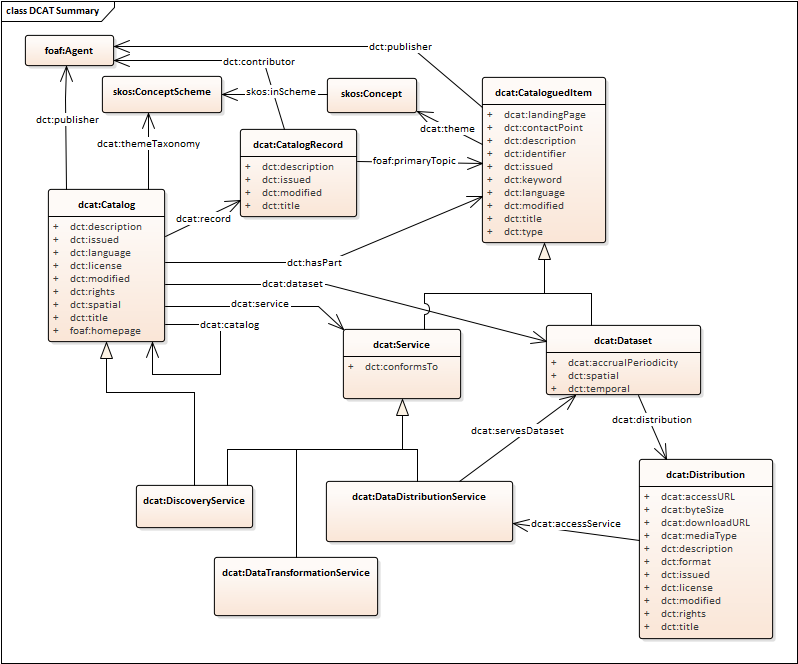
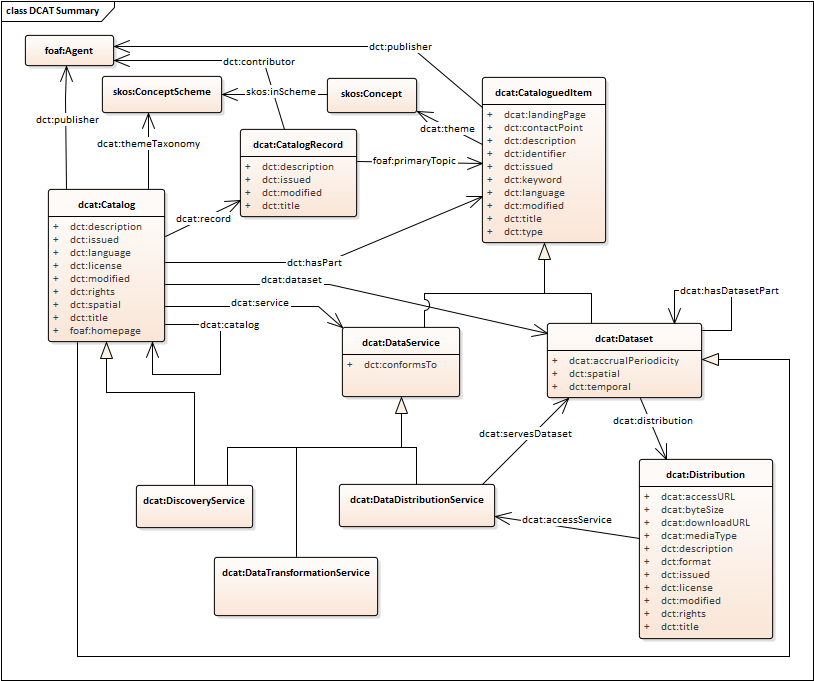
Minor elaboration of model following Genova F2F

Changed region(s): [[0.0, 0.0, 0.9925, 0.9639], [0.4511, 0.3313, 0.5113, 0.3614], [0.0902, 0.9337, 0.1203, 0.9639]]

diff --git a/index.html b/index.html
@@ -104,9 +104,9 @@ RDF syntaxes, access protocols, and access policies is not mandated by this spec
 	<li> <code><a href="#Class:_Catalog">dcat:Catalog</a></code> represents the catalog</li>
 	<li> <code><a href="#Class:_CataloguedItem">dcat:CataloguedItem</a></code> represents an item in a catalog.</li>
 	<li> <code><a href="#Class:_Dataset">dcat:Dataset</a></code> represents a dataset in a catalog.</li>
+	<li> <code><a href="#Class:_Distribution">dcat:Distribution</a></code> represents an accessible form or representation of a dataset as for example a downloadable file.</li>
 	<li> <code><a href="#Class:_Service">dcat:Service</a></code> represents a service in a catalog.</li>
 	<li> <code><a href="#Class:_DataDistributionService">dcat:DataDistributionService</a></code> represents a service that provides access to distributions of datasets and extracts of datasets.</li>
-	<li> <code><a href="#Class:_Distribution">dcat:Distribution</a></code> represents an accessible form of a dataset as for example a downloadable file, an RSS feed or a web service that provides the data.</li>
 	<li> (<code><a href="#Class:_DataTransformationService">dcat:DataTransformationService</a></code> represents a service that can transform a dataset, e.g. spatial coordinate transformation; interpolation or resampling of a dataset).</li>
 	<li> (<code><a href="#Class:_DiscoveryService">dcat:DiscoveryService</a></code> represents a service that supports discovery functions.)</li>
 	<li> <code><a href="#Class:_CatalogRecord">dcat:CatalogRecord</a></code> describes a dataset entry in the catalog, primarily concerning the registration information such as who added the item and when</li>
@@ -389,6 +389,7 @@ The definitions (including domain and range) of terms outside the dcat namespace
 <a href="#Property:catalog_hasPart">hasPart</a>,
 <a href="#Property:catalog_dataset">dataset</a>,
 <a href="#Property:catalog_service">service</a>,
+<a href="#Property:catalog_catalog">catalog</a>,
 <a href="#Property:catalog_description">description</a>,
 <a href="#Property:catalog_homepage">homepage</a>,
 <a href="#Property:catalog_language">language</a>,
@@ -418,6 +419,7 @@ See <a href="https://github.com/w3c/dxwg/issues/172">Issue #172</a>. </p>
 <table class="definition">
   <thead><tr><th>RDF Class:</th><th><a href="http://www.w3.org/ns/dcat#Catalog">dcat:Catalog</a></th></tr></thead>
   <tbody>
+		<tr><td class="prop">Sub-class of:</td><td><a href="#Class:_Dataset">Dataset</a></td></tr>
     <tr><td class="prop">Definition:</td><td>A data catalog is a curated collection of metadata about datasets.</td></tr>
     <tr><td class="prop">Usage note:</td><td>Typically, a web-based data catalog is represented as a single instance of this class.</td></tr>
     <tr><td class="prop">See also:</td><td> <a href="#Class:_Catalog_record">Catalog record</a>, <a href="#Class:_Dataset">Dataset</a></td></tr>
@@ -649,10 +651,10 @@ If a ISO 639-1 (two-letter) code is defined for language, then its corresponding
 </p>
 
 <table class="definition">
-  <thead><tr><th>RDF Property:</th><th><a href="http://www.w3.org/ns/dcat#service">dcat:catalog</a></th></tr></thead>
+  <thead><tr><th>RDF Property:</th><th><a href="http://www.w3.org/ns/dcat#catalog">dcat:catalog</a></th></tr></thead>
   <tbody>
     <tr><td class="prop">Definition:</td><td>A catalog that is part of the catalog.</td></tr>
-    <tr><td class="prop">Sub property of:</td><td><a href="http://purl.org/dc/terms/hasPart">dct:hasPart</a></td></tr>
+    <tr><td class="prop">Sub property of:</td><td><a href="http://purl.org/dc/terms/hasPart">dct:dataset</a></td></tr>
     <tr><td class="prop">Domain:</td><td><a href="http://www.w3.org/ns/dcat#Catalog">dcat:Catalog</a></td></tr>
     <tr><td class="prop">Range:</td><td><a href="http://www.w3.org/ns/dcat#Dataset">dcat:Catalog</a></td></tr>
   </tbody>
@@ -1076,6 +1078,7 @@ If a ISO 639-1 (two-letter) code is defined for language, then its corresponding
 <h3>Class: Dataset</h3>
 <p>In addition to the properties inherited from the super-class CataloguedItem, the following properties are recommended for use on this class:
 <a href="#Property:dataset_distribution">distribution</a>,
+<a href="#Property:dataset_hasDatasetPart">hasDatasetPart</a>,
 <a href="#Property:dataset_frequency">frequency</a>,
 <a href="#Property:dataset_spatial">spatial coverage</a>,
 <a href="#Property:dataset_temporal">temporal coverage</a>,
@@ -1140,6 +1143,41 @@ If a ISO 639-1 (two-letter) code is defined for language, then its corresponding
 	This relationship has been removed in the revised DCAT vocabulary - see <a href="https://github.com/w3c/dxwg/issues/98">Issue #98</a>.
 </p>
 
+<section id="Property:dataset_distribution">
+<h4>Property: dataset distribution</h4>
+
+<p class="issue" data-number="120">
+	The axiomatization of dcat:distribution is being re-evaluated as part of the revision of DCAT.
+</p>
+
+<table class="definition">
+  <thead><tr><th>RDF Property:</th><th><a href="http://www.w3.org/ns/dcat#distribution">dcat:distribution</a></th></tr></thead>
+  <tbody>
+    <tr><td class="prop">Definition:</td><td>Connects a dataset to its available distributions.</td></tr>
+    <tr><td class="prop">Domain:</td><td><a href="http://www.w3.org/ns/dcat#Dataset">dcat:Dataset</a></td></tr>
+    <tr><td class="prop">Range:</td><td><a href="http://www.w3.org/ns/dcat#Distribution">dcat:Distribution</a></td></tr>
+  </tbody>
+</table>
+</section>
+
+<section id="Property:dataset_hasDatasetPart">
+<h4>Property: has dataset part</h4>
+
+<p class="note">
+	Property added in this revision of DCAT.
+</p>
+
+<table class="definition">
+  <thead><tr><th>RDF Property:</th><th><a href="http://www.w3.org/ns/dcat#hasDatasetPart">dcat:hasDatasetPart</a></th></tr></thead>
+  <tbody>
+		<tr><td class="prop">Definition:</td><td>Link to a dataset which is a part of this one</td></tr>
+		<tr><td class="prop">Sub property of:</td><td><a href="http://purl.org/dc/terms/hasPart">dct:hasPart</a></td></tr>
+    <tr><td class="prop">Domain:</td><td><a href="http://www.w3.org/ns/dcat#Dataset">dcat:Dataset</a></td></tr>
+    <tr><td class="prop">Range:</td><td><a href="http://www.w3.org/ns/dcat#Dataset">dcat:Dataset</a></td></tr>
+  </tbody>
+</table>
+</section>
+
 <section id="Property:dataset_frequency">
 <h4>Property: frequency</h4>
 <table class="definition">
@@ -1183,23 +1221,6 @@ If a ISO 639-1 (two-letter) code is defined for language, then its corresponding
   <tbody>
     <tr><td class="prop">Definition:</td><td>The temporal period that the dataset covers.</td></tr>
     <tr><td class="prop">Range:</td><td><a href="http://purl.org/dc/terms/PeriodOfTime">dct:PeriodOfTime</a> (An interval of time that is named or defined by its start and end dates)</td></tr>
-  </tbody>
-</table>
-</section>
-
-<section id="Property:dataset_distribution">
-<h4>Property: dataset distribution</h4>
-
-<p class="issue" data-number="120">
-	The axiomatization of dcat:distribution is being re-evaluated as part of the revision of DCAT.
-</p>
-
-<table class="definition">
-  <thead><tr><th>RDF Property:</th><th><a href="http://www.w3.org/ns/dcat#distribution">dcat:distribution</a></th></tr></thead>
-  <tbody>
-    <tr><td class="prop">Definition:</td><td>Connects a dataset to its available distributions.</td></tr>
-    <tr><td class="prop">Domain:</td><td><a href="http://www.w3.org/ns/dcat#Dataset">dcat:Dataset</a></td></tr>
-    <tr><td class="prop">Range:</td><td><a href="http://www.w3.org/ns/dcat#Distribution">dcat:Distribution</a></td></tr>
   </tbody>
 </table>
 </section>
